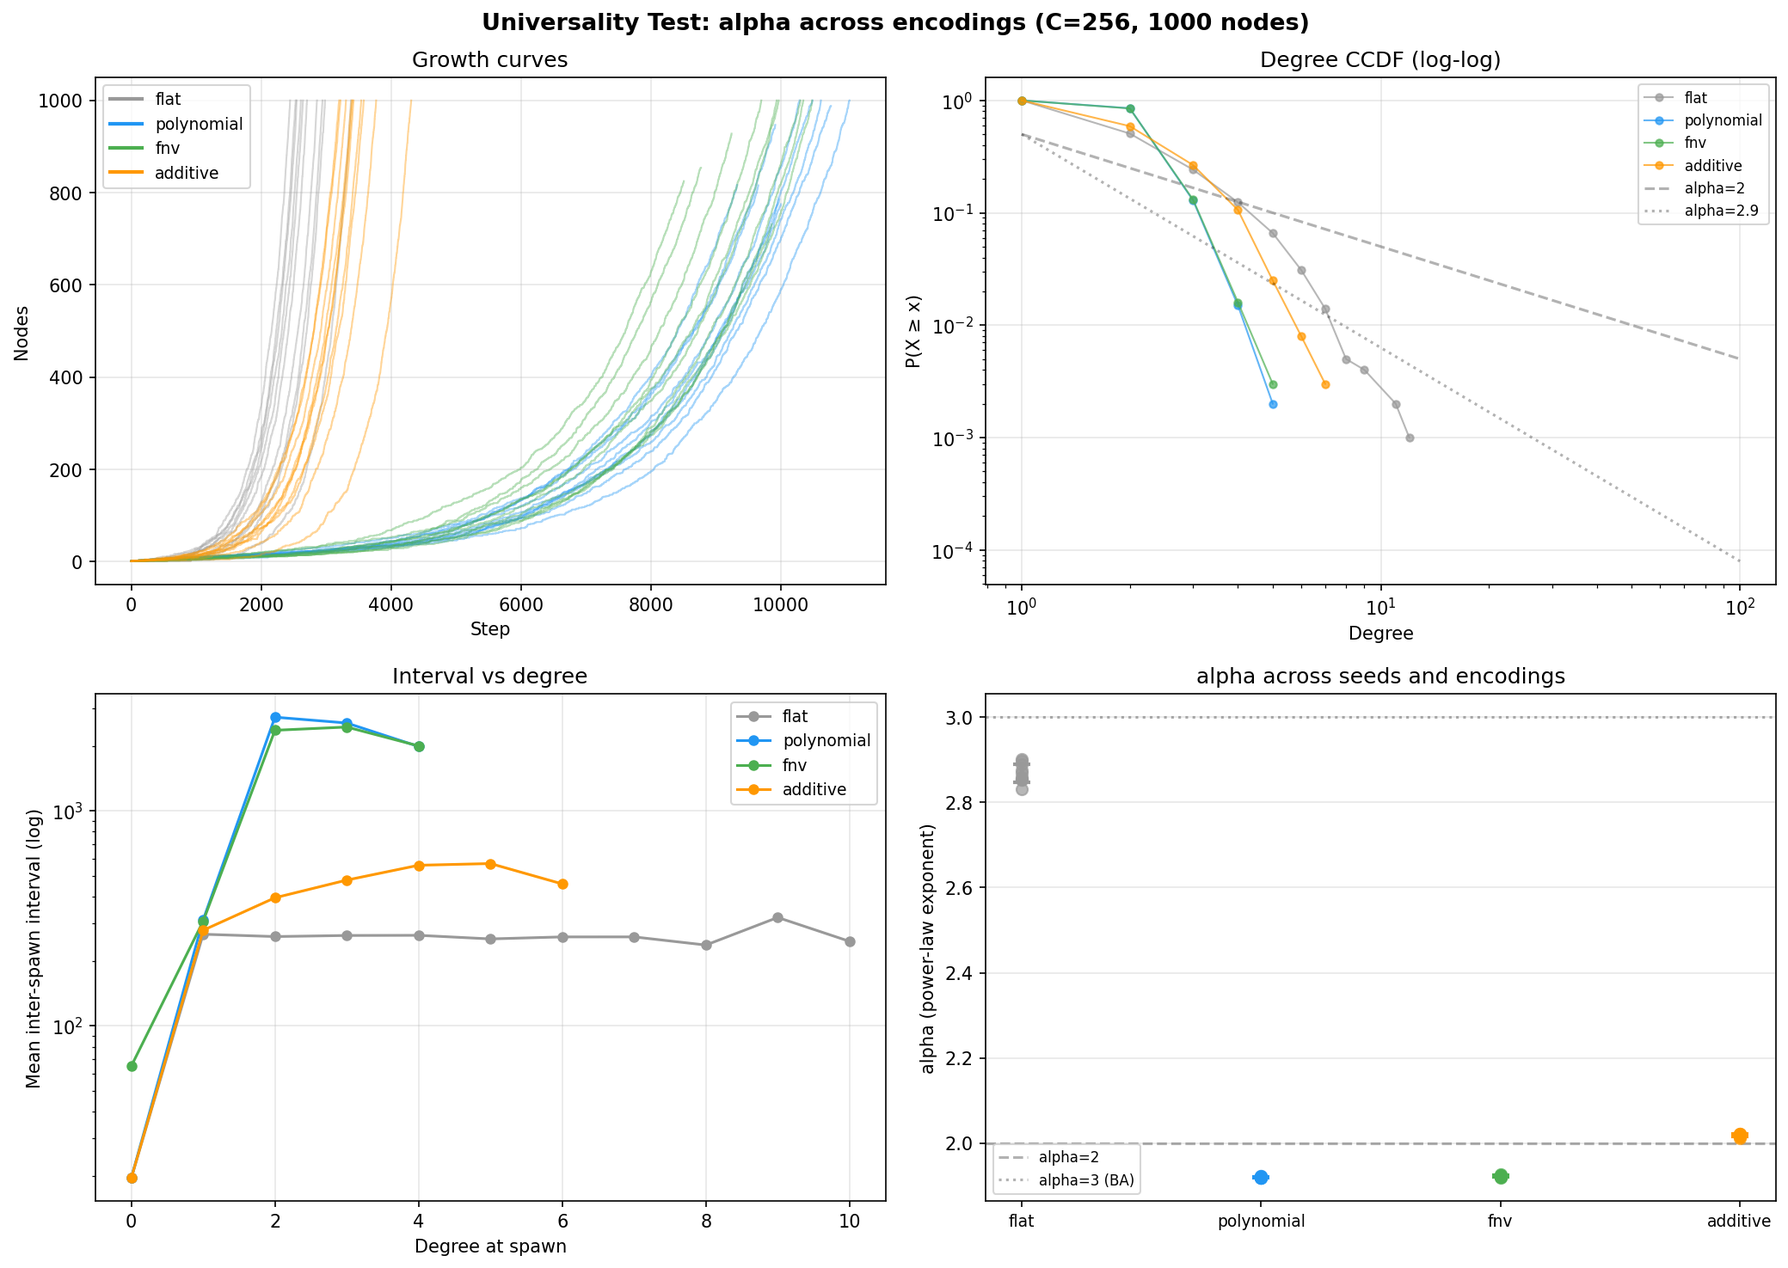
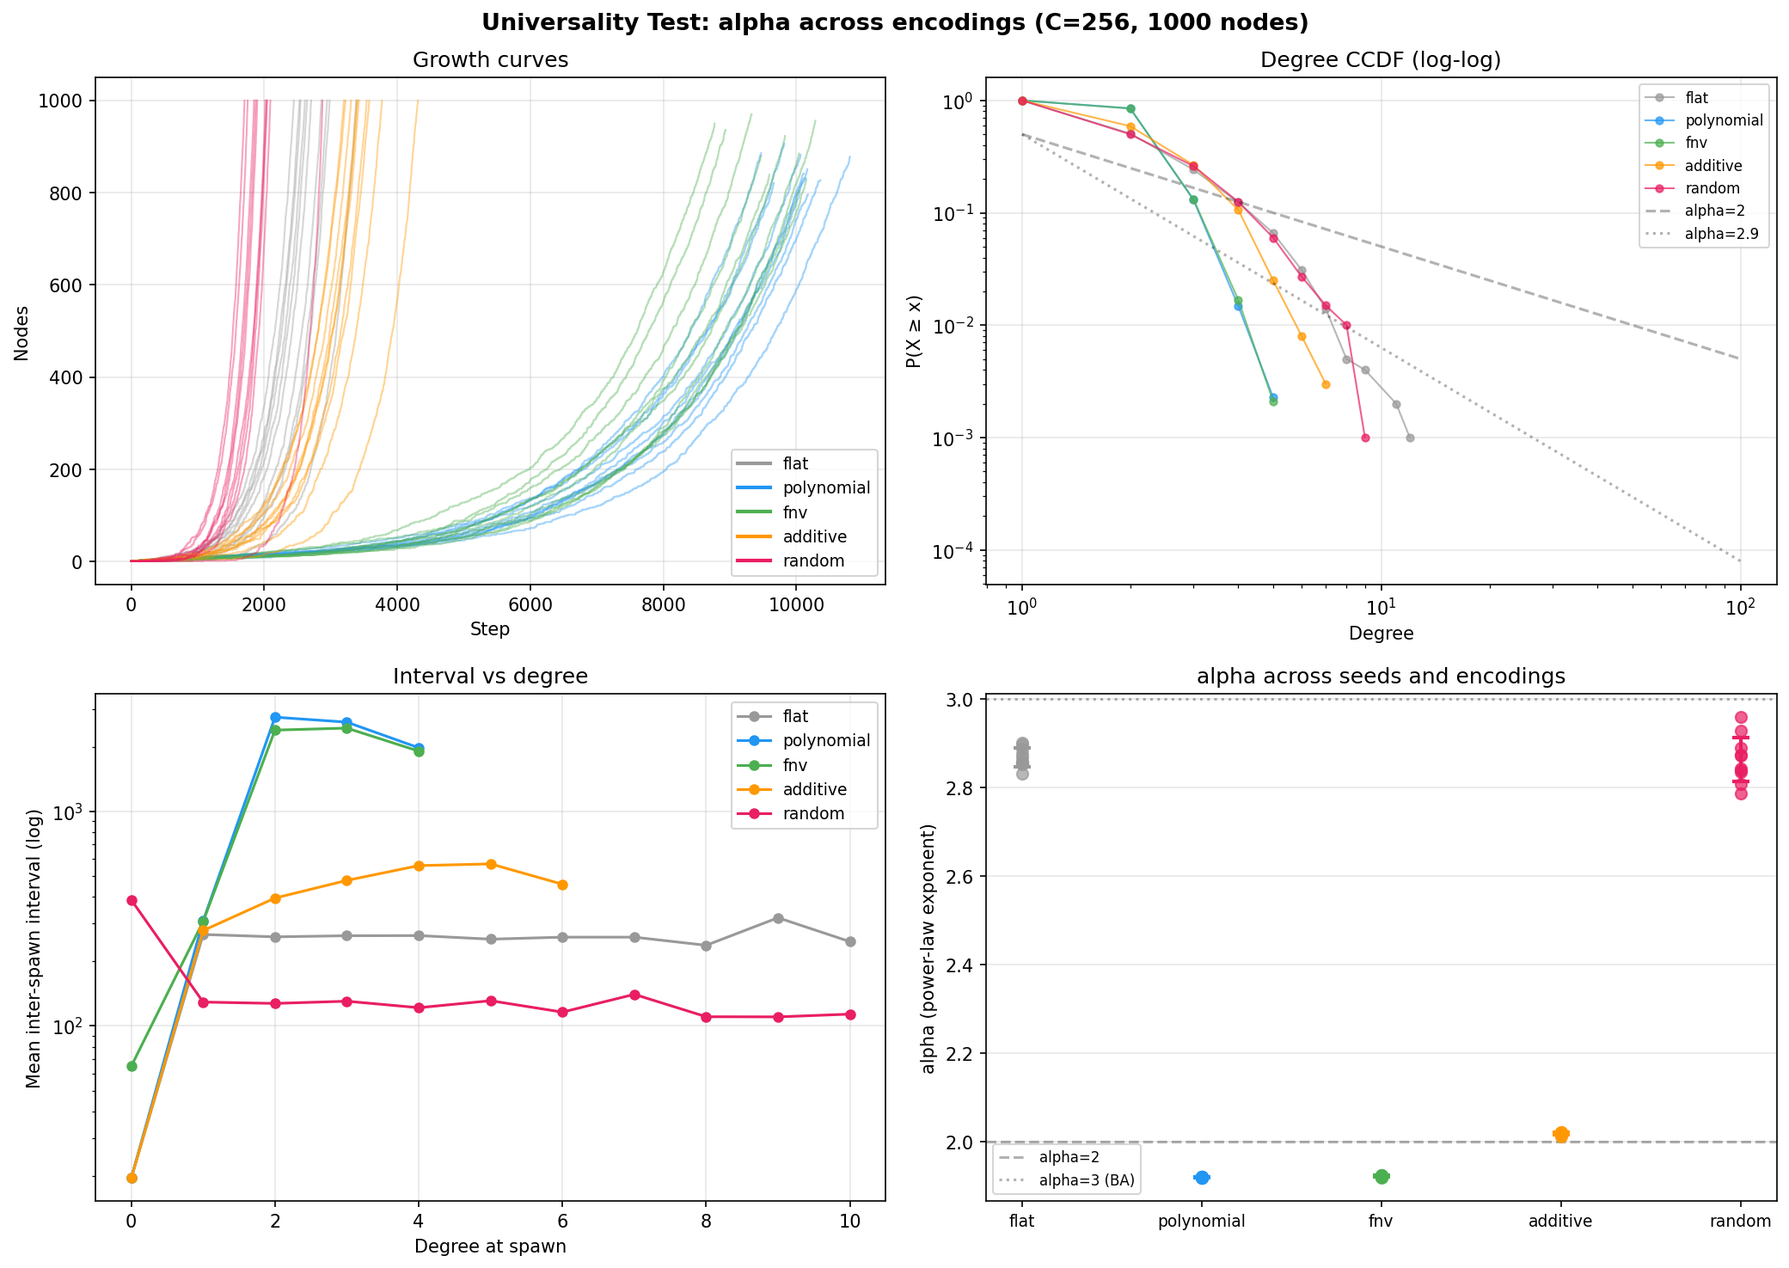
Add random-spawning control, fix progress bars, update paper
Random control (hierarchical encoding + fixed-probability spawn) shows
constant intervals and alpha=2.86 — proves deceleration requires the
anti-loop constraint, not just encoding quality. Also fixes seed progress
bars in hierarchical_network and universality experiments.

diff --git a/simulation/experiments/universality.py b/simulation/experiments/universality.py
@@ -30,12 +30,24 @@ from simulation.shared.analysis import (
 TITLE = "Universality of alpha ~ 2.0 Across Encodings"
 
 
-def _run_model(mem_bits, max_nodes, seed, time_limit, encoding, hash_type):
-    """Run spawn model with a specific encoding and hash type."""
+def _run_model(mem_bits, max_nodes, seed, time_limit, encoding, hash_type,
+               progress=None, spawn_mode='loop'):
+    """Run spawn model with a specific encoding and hash type.
+
+    spawn_mode: 'loop' = spawn on effective state revisit (default)
+                'random' = spawn with fixed probability per node per step
+    """
     model = SpawnModel(mem_bits, max_nodes, seed, encoding=encoding)
-    model._hash_type = hash_type  # store for use in step_all override
+    model._hash_type = hash_type
+    rng = np.random.default_rng(seed + 99999)
     t_start = time.time()
     growth_log = [(0, 1)]
+    last_update = 0
+
+    # For random spawning, calibrate probability to match flat growth rate
+    # Flat model spawns ~1 node per C steps, so p ~ 1/(C * N) per node
+    C = 2 ** mem_bits
+    spawn_prob = 1.0 / C  # per node per step
 
     for step in range(1, 500000):
         if time_limit and (time.time() - t_start) > time_limit:
@@ -45,18 +57,37 @@ def _run_model(mem_bits, max_nodes, seed, time_limit, encoding, hash_type):
         _step_all_custom(model, hash_type)
 
         if model.n_nodes < max_nodes:
-            for nid in range(model.n_nodes):
-                if model.looped[nid]:
-                    degree = len(model._neighbor_sets[nid])
-                    interval = step - int(model.last_spawn_step[nid])
-                    model.spawn_events.append((nid, step, degree, interval))
-                    model.last_spawn_step[nid] = step
+            if spawn_mode == 'loop':
+                for nid in range(model.n_nodes):
+                    if model.looped[nid]:
+                        degree = len(model._neighbor_sets[nid])
+                        interval = step - int(model.last_spawn_step[nid])
+                        model.spawn_events.append((nid, step, degree, interval))
+                        model.last_spawn_step[nid] = step
 
-                    model._add_node(parent_id=nid, step=step)
-                    model.looped[nid] = False
-                    model.effective_sets[nid] = set()
-                    if model.n_nodes >= max_nodes:
-                        break
+                        model._add_node(parent_id=nid, step=step)
+                        model.looped[nid] = False
+                        model.effective_sets[nid] = set()
+                        if model.n_nodes >= max_nodes:
+                            break
+            elif spawn_mode == 'random':
+                # Each node spawns with fixed probability, independent of state
+                n_current = model.n_nodes
+                for nid in range(n_current):
+                    if rng.random() < spawn_prob:
+                        degree = len(model._neighbor_sets[nid])
+                        interval = step - int(model.last_spawn_step[nid])
+                        model.spawn_events.append((nid, step, degree, interval))
+                        model.last_spawn_step[nid] = step
+
+                        model._add_node(parent_id=nid, step=step)
+                        if model.n_nodes >= max_nodes:
+                            break
+
+        # Update seed progress bar
+        if progress and model.n_nodes - last_update >= 10:
+            progress.update_seed(model.n_nodes, max_nodes)
+            last_update = model.n_nodes
 
         growth_log.append((step, model.n_nodes))
         if model.n_nodes >= max_nodes:
@@ -133,11 +164,13 @@ def run(progress, out_dir, n_seeds, max_nodes, mem_bits, time_budget, **_):
     D_max = min(C ** 2, 4096)
     t_start = time.time()
 
+    # Each entry: (name, encoding, color, spawn_mode)
     hash_types = [
-        ('flat', 'flat', '#999999'),
-        ('polynomial', 'hierarchical', '#2196F3'),
-        ('fnv', 'hierarchical', '#4CAF50'),
-        ('additive', 'hierarchical', '#FF9800'),
+        ('flat', 'flat', '#999999', 'loop'),
+        ('polynomial', 'hierarchical', '#2196F3', 'loop'),
+        ('fnv', 'hierarchical', '#4CAF50', 'loop'),
+        ('additive', 'hierarchical', '#FF9800', 'loop'),
+        ('random', 'hierarchical', '#E91E63', 'random'),
     ]
 
     progress.log("Universality of alpha ~ 2.0 Across Encodings")
@@ -160,7 +193,7 @@ def run(progress, out_dir, n_seeds, max_nodes, mem_bits, time_budget, **_):
             break
         seed = 40000 + i
 
-        for ht_name, encoding, color in hash_types:
+        for ht_name, encoding, color, spawn_mode in hash_types:
             if time.time() - t_start > time_budget * 0.90:
                 break
             run_idx += 1
@@ -169,7 +202,8 @@ def run(progress, out_dir, n_seeds, max_nodes, mem_bits, time_budget, **_):
 
             G, n, gl, spawn_events = _run_model(
                 mem_bits, max_nodes, seed, time_limit=per_run,
-                encoding=encoding, hash_type=ht_name)
+                encoding=encoding, hash_type=ht_name if spawn_mode == 'loop' else 'polynomial',
+                progress=progress, spawn_mode=spawn_mode)
 
             results[ht_name].append({
                 'G': G, 'n': n, 'gl': gl, 'seed': seed,
@@ -186,7 +220,7 @@ def run(progress, out_dir, n_seeds, max_nodes, mem_bits, time_budget, **_):
     all_alphas = {}
     all_csn = {}
 
-    for ht_name, encoding, color in hash_types:
+    for ht_name, encoding, color, _sm in hash_types:
         alphas = []
         progress.log(f"\n  {ht_name.upper()}:")
 
@@ -205,7 +239,7 @@ def run(progress, out_dir, n_seeds, max_nodes, mem_bits, time_budget, **_):
 
     # Inter-spawn intervals
     progress.log(f"\n  INTER-SPAWN INTERVALS:")
-    for ht_name, encoding, color in hash_types:
+    for ht_name, encoding, color, _sm in hash_types:
         all_events = []
         for d in results[ht_name]:
             all_events.extend(d['spawn_events'])
@@ -230,7 +264,7 @@ def run(progress, out_dir, n_seeds, max_nodes, mem_bits, time_budget, **_):
     progress.log(f"\n  SUMMARY:")
     progress.log(f"    {'Hash':<14s} {'alpha mean':>8s} {'alpha std':>8s} {'seeds':>6s}")
     progress.log(f"    {'-'*40}")
-    for ht_name in ['flat', 'polynomial', 'fnv', 'additive']:
+    for ht_name in ['flat', 'polynomial', 'fnv', 'additive', 'random']:
         if ht_name in all_alphas:
             m, s, n = all_alphas[ht_name]
             progress.log(f"    {ht_name:<14s} {m:>8.3f} {s:>8.3f} {n:>6d}")
@@ -246,6 +280,14 @@ def run(progress, out_dir, n_seeds, max_nodes, mem_bits, time_budget, **_):
         else:
             progress.log(f"  alpha varies — result is encoding-dependent")
 
+    # Random control comparison
+    if 'random' in all_alphas and 'polynomial' in all_alphas:
+        progress.log(f"\n  RANDOM CONTROL:")
+        progress.log(f"    Polynomial (loop-triggered): alpha = {all_alphas['polynomial'][0]:.3f}")
+        progress.log(f"    Random (prob-triggered):     alpha = {all_alphas['random'][0]:.3f}")
+        progress.log(f"    If similar -> deceleration comes from encoding, not spawn trigger")
+        progress.log(f"    If different -> anti-loop constraint matters")
+
     # === Plot ===
     os.makedirs(out_dir, exist_ok=True)
     _plot_results(results, hash_types, C, D_max, max_nodes, out_dir, progress)
@@ -258,7 +300,7 @@ def _plot_results(results, hash_types, C, D_max, max_nodes, out_dir, progress):
 
     # Panel 1: Growth curves
     ax = axes[0, 0]
-    for ht_name, encoding, color in hash_types:
+    for ht_name, encoding, color, _sm in hash_types:
         for d in results[ht_name]:
             steps, nodes = zip(*d['gl'])
             ax.plot(steps, nodes, color=color, alpha=0.4, linewidth=1)
@@ -271,7 +313,7 @@ def _plot_results(results, hash_types, C, D_max, max_nodes, out_dir, progress):
 
     # Panel 2: Log-log degree distributions (CCDF)
     ax = axes[0, 1]
-    for ht_name, encoding, color in hash_types:
+    for ht_name, encoding, color, _sm in hash_types:
         for d in results[ht_name][:1]:  # first seed only for clarity
             if d['n'] >= 50:
                 degs, ccdf = get_ccdf(d['G'])
@@ -289,7 +331,7 @@ def _plot_results(results, hash_types, C, D_max, max_nodes, out_dir, progress):
 
     # Panel 3: Inter-spawn interval vs degree
     ax = axes[1, 0]
-    for ht_name, encoding, color in hash_types:
+    for ht_name, encoding, color, _sm in hash_types:
         all_events = []
         for d in results[ht_name]:
             all_events.extend(d['spawn_events'])
@@ -315,7 +357,7 @@ def _plot_results(results, hash_types, C, D_max, max_nodes, out_dir, progress):
     ax = axes[1, 1]
     positions = []
     labels = []
-    for idx, (ht_name, encoding, color) in enumerate(hash_types):
+    for idx, (ht_name, encoding, color, _sm) in enumerate(hash_types):
         alphas = []
         for d in results[ht_name]:
             if d['n'] >= 50:

diff --git a/simulation/experiments/hierarchical_network.py b/simulation/experiments/hierarchical_network.py
@@ -36,11 +36,12 @@ from simulation.shared.analysis import (
 TITLE = "Hierarchical Network Growth"
 
 
-def _run_flat_model(mem_bits, max_nodes, seed, time_limit):
+def _run_flat_model(mem_bits, max_nodes, seed, time_limit, progress=None):
     """Run flat (XOR) spawn model with loop-only triggering."""
     model = SpawnModel(mem_bits, max_nodes, seed, encoding='flat')
     t_start = time.time()
     growth_log = [(0, 1)]
+    last_update = 0
 
     for step in range(1, 200000):
         if time_limit and (time.time() - t_start) > time_limit:
@@ -60,6 +61,10 @@ def _run_flat_model(mem_bits, max_nodes, seed, time_limit):
                     model.effective_sets[nid] = set()
                     if model.n_nodes >= max_nodes:
                         break
+
+        if progress and model.n_nodes - last_update >= 10:
+            progress.update_seed(model.n_nodes, max_nodes)
+            last_update = model.n_nodes
 
         growth_log.append((step, model.n_nodes))
         if model.n_nodes >= max_nodes:
@@ -101,7 +106,7 @@ def run(progress, out_dir, n_seeds, max_nodes, mem_bits, time_budget, **_):
         progress.update(i * 2, n_seeds * 2, "Flat", f"seed {i+1}")
         progress.update_seed(0, target)
         G_f, nd_f, gl_f = _run_flat_model(
-            mem_bits, target, seed, time_limit=per_seed)
+            mem_bits, target, seed, time_limit=per_seed, progress=progress)
         n_f = G_f.number_of_nodes()
         steps_f = gl_f[-1][0]
         flat_data.append({
@@ -115,7 +120,8 @@ def run(progress, out_dir, n_seeds, max_nodes, mem_bits, time_budget, **_):
         progress.update(i * 2 + 1, n_seeds * 2, "Hier", f"seed {i+1}")
         progress.update_seed(0, target)
         G_h, nd_h, gl_h = run_hierarchical_model(
-            mem_bits, target, seed, time_limit=per_seed, D_max=D_max)
+            mem_bits, target, seed, time_limit=per_seed, D_max=D_max,
+            progress=progress)
         n_h = G_h.number_of_nodes()
         steps_h = gl_h[-1][0]
         hier_data.append({

diff --git a/paper/antiloop_short.md b/paper/antiloop_short.md
@@ -8,7 +8,7 @@ Karol Kowalczyk · March 2026
 
 ## Abstract
 
-Network growth models require assumptions about how node activity changes with connectivity. Preferential attachment assumes well-connected nodes attract more connections. Aging models (Dorogovtsev & Mendes, 2000) impose deceleration as a parameter. We derive deceleration instead. If nodes are finite automata under a no-repeat constraint, then encoding quality determines effective state space, and well-connected nodes with hierarchical encoding take exponentially longer to exhaust their states. The central result: under polynomial hashing, the inter-spawn interval increases 8.8x from degree 1 to degree 2 (10 seeds, 1000 nodes, C = 256). Under flat encoding, intervals are constant across all degrees. This confirms the anti-loop theorem's prediction that connectivity is a cost, not a benefit — the opposite of preferential attachment. The degree of deceleration tracks encoding quality: stronger encodings produce more deceleration (polynomial 8.8x, FNV 7.7x, additive 1.4x per degree step). The resulting degree distributions are heavier-tailed than flat encoding, though not strict power laws (lognormal fits better in all cases per Clauset-Shalizi-Newman testing).
+Network growth models require assumptions about how node activity changes with connectivity. Preferential attachment assumes well-connected nodes attract more connections. Aging models (Dorogovtsev & Mendes, 2000) impose deceleration as a parameter. We derive deceleration instead. If nodes are finite automata under a no-repeat constraint, then encoding quality determines effective state space, and well-connected nodes with hierarchical encoding take exponentially longer to exhaust their states. The central result: under polynomial hashing, the inter-spawn interval increases 8.9x from degree 1 to degree 2 (10 seeds, 1000 nodes, C = 256). Under flat encoding, intervals are constant across all degrees. A random-spawning control — same hierarchical encoding but spawning at fixed probability instead of on loop detection — also shows constant intervals (alpha = 2.86), confirming that deceleration requires both hierarchical encoding and the anti-loop constraint. The degree of deceleration tracks encoding quality: stronger encodings produce more deceleration (polynomial 8.9x, FNV 7.8x, additive 1.4x per degree step). The resulting degree distributions are heavier-tailed than flat encoding, though not strict power laws (lognormal fits better in all cases per Clauset-Shalizi-Newman testing).
 
 ---
 
@@ -18,7 +18,7 @@ Each node is a finite deterministic automaton with C internal states, receiving 
 
 The automaton's **encoding** is a preprocessing step that maps s^k possible input patterns to D distinguishable categories before they enter the transition function. The **effective state space** is C × D: the automaton can occupy C internal states, each paired with D perceived inputs. After C × D + 1 steps, it must revisit an effective state (pigeonhole), and the deterministic transition function forces a loop.
 
-The encoding is not part of the automaton's transition function as defined by A1. It is an external module that determines how raw inputs are compressed before the automaton processes them. Different encodings on the same automaton produce different effective state spaces and therefore different loop times.
+The full model is a finite automaton with a preprocessing stage — equivalently, a Mealy machine with structured input. The encoding is not part of the automaton's transition function; it determines how raw inputs are compressed before the automaton processes them. Different encodings on the same automaton produce different effective state spaces and therefore different loop times.
 
 ---
 
@@ -58,20 +58,23 @@ Lifetime CV = 0.524 +/- 0.014 across C = 16-128 (predicted: 0.523, the Rayleigh 
 
 This is the central test. The anti-loop theorem predicts that under hierarchical encoding, inter-spawn intervals should increase with degree. Under flat encoding, they should be constant.
 
-Spawn model, C = 256, 1000 nodes, 10 seeds. Four encoding functions tested:
+Spawn model, C = 256, 1000 nodes, 10 seeds. Four encoding functions tested, plus a random-spawning control:
 
 **Inter-spawn interval at degree 1 vs degree 2:**
 
 | Encoding | Interval deg=1 | Interval deg=2 | Ratio | Growth speed |
 |---|---|---|---|---|
 | Flat (XOR) | 267 | 260 | **1.0x** | baseline |
-| Polynomial | 311 | 2728 | **8.8x** | 3.8x slower |
-| FNV | 307 | 2371 | **7.7x** | 3.7x slower |
+| Polynomial | 309 | 2743 | **8.9x** | 3.8x slower |
+| FNV | 307 | 2388 | **7.8x** | 3.7x slower |
 | Additive | 278 | 394 | **1.4x** | 1.3x slower |
+| Random control | 129 | 127 | **1.0x** | -- |
 
-Under flat encoding, intervals are constant across all degrees (slope = -0.004). Under polynomial and FNV hashing, intervals jump sharply at degree 2 — well-connected nodes reproduce dramatically slower. Under additive hashing (a weaker encoding with effective D_eff < C^k), the jump is smaller.
+Under flat encoding, intervals are constant across all degrees (slope = -0.004). Under polynomial and FNV hashing, intervals jump sharply at degree 2 — well-connected nodes reproduce dramatically slower. Under additive hashing, the jump is smaller. The additive hash is weaker because addition is more collision-prone than multiplication: distinct input vectors (e.g., [1,2] and [2,1] weighted by position) can produce the same sum, reducing the effective number of distinguishable patterns below C^k.
 
 The deceleration tracks encoding quality, as the theorem predicts: stronger encoding -> larger D_eff -> more deceleration. This is not a free parameter — it is a consequence of the hash function's ability to distinguish input patterns.
+
+**Random-spawning control.** The random control uses polynomial (hierarchical) encoding but spawns with fixed probability per node per step instead of on loop detection. Result: intervals are constant across all degrees (~129), and the degree distribution matches flat encoding (alpha = 2.86). This confirms that deceleration requires *both* hierarchical encoding *and* loop-triggered spawning. The anti-loop constraint is essential — encoding quality alone is not sufficient.
 
 ### 3.3 Growing network: degree distributions
 
@@ -107,7 +110,7 @@ The anti-loop theorem provides the mechanism that aging models assume. The decel
 
 The theorem is elementary (one-line pigeonhole proof). The novelty is the application to network growth: pointing the pigeonhole at encoding quality x connectivity and observing that it produces anti-preferential attachment.
 
-The encoding is not formally part of the automaton — it is an external preprocessing step. A more rigorous formulation would define encoding as a property of the transition function itself, characterizing which classes of transition functions correspond to "flat" vs "hierarchical" behavior.
+The model is a finite automaton with a preprocessing stage, not a pure finite automaton. A more rigorous formulation would characterize which classes of transition functions (without external preprocessing) correspond to "flat" vs "hierarchical" effective state spaces.
 
 The simulation is at moderate scale (1000 nodes). The degree distributions are not power laws — they are heavy-tailed, with lognormal fitting better in all cases. The alpha values are shape parameters for comparison, not evidence of power-law scaling. Larger simulations (10^4-10^5 nodes) would clarify the distributional form.
 

diff --git a/README.md b/README.md
@@ -16,7 +16,8 @@ If network nodes are finite automata that may not revisit a state, then encoding
 
 ## Simulation results
 
-- **Inter-spawn intervals (central result):** under polynomial hashing, intervals jump 8.8x from degree 1 to degree 2. Under flat encoding, intervals are constant across all degrees. Deceleration tracks encoding quality: polynomial 8.8x, FNV 7.7x, additive 1.4x. (10 seeds, 1000 nodes, C=256.)
+- **Inter-spawn intervals (central result):** under polynomial hashing, intervals jump 8.9x from degree 1 to degree 2. Under flat encoding, intervals are constant across all degrees. Deceleration tracks encoding quality: polynomial 8.9x, FNV 7.8x, additive 1.4x. (10 seeds, 1000 nodes, C=256.)
+- **Random-spawning control:** same hierarchical encoding but spawning at fixed probability instead of on loop detection — intervals constant, alpha = 2.86. Proves deceleration requires the anti-loop constraint.
 - **Universality:** three different hierarchical hash functions all produce heavier-tailed degree distributions than flat encoding, with the tail heaviness tracking encoding quality. Distributions are not strict power laws (lognormal fits better per CSN testing).
 - **Isolated entity (C=64):** flat lifetime ~80 at all degrees. Hierarchical: 80/643/2641 at k=1/2/3 (34x ratio). log(lifetime) slope = 1.75, predicted log(C)/2 = 2.08, R² = 0.99.
 - **Entity lifetime:** CV = 0.524 ± 0.014 (predicted: 0.523, the Rayleigh invariant). Zero free parameters.
